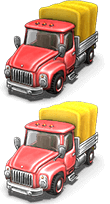
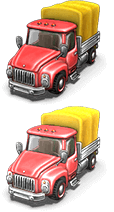
docs: add shop assets

diff --git a/rsclone/src/utils/storage/storageData.ts b/rsclone/src/utils/storage/storageData.ts
@@ -1,0 +1,147 @@
+export const buildData = {
+  well: {
+    '1': {
+      width: 230,
+      height: 180,
+      swidth: 128,
+      sheight: 100,
+      stepY: 100,
+      y: -200
+    },
+    '2': {
+      width: 195,
+      height: 177,
+      swidth: 132,
+      sheight: 120,
+      stepY: 120,
+      y: -200
+    },
+    '3': {
+      width: 195,
+      height: 168,
+      swidth: 176,
+      sheight: 152,
+      stepY: 152,
+      y: -200
+    },
+    '4': {
+      width: 195,
+      height: 168,
+      swidth: 168,
+      sheight: 148,
+      stepY: 148,
+      y: -200
+    },
+  },
+  car: {
+    '1': {
+      width: 200,
+      height: 192,
+      swidth: 110,
+      sheight: 106,
+      stepY: 106,
+      y: -210
+    },
+    '2': {
+      width: 190,
+      height: 176,
+      swidth: 110,
+      sheight: 102,
+      stepY: 102,
+      y: -210
+    },
+    '3': {
+      width: 190,
+      height: 176,
+      swidth: 114,
+      sheight: 106,
+      stepY: 106,
+      y: -210
+    },
+    '4': {
+      width: 190,
+      height: 181,
+      swidth: 120,
+      sheight: 114,
+      stepY: 114,
+      y: -210
+    },
+  },
+  storage: {
+    '1': {
+      width: 300,
+      height: 240,
+      swidth: 164,
+      sheight: 132,
+      stepY: 132,
+      y: -300
+    },
+    '2': {
+      width: 280,
+      height: 233,
+      swidth: 168,
+      sheight: 140,
+      stepY: 140,
+      y: -320
+    },
+    '3': {
+      width: 290,
+      height: 240,
+      swidth: 168,
+      sheight: 136,
+      stepY: 136,
+      y: -320
+    },
+    '4': {
+      width: 300,
+      height: 250,
+      swidth: 170,
+      sheight: 140,
+      stepY: 140,
+      y: -400
+    },
+  },
+  flourBuild: {
+    '1': {
+      width: 280,
+      height: 248,
+      swidth: 176,
+      sheight: 156,
+      stepY: 156,
+      y: -300
+    },
+    '2': {
+      width: 280,
+      height: 280,
+      swidth: 184,
+      sheight: 184,
+      stepY: 184,
+      y: -300
+    },
+    '3': {
+      width: 280,
+      height: 233,
+      swidth: 184,
+      sheight: 152,
+      stepY: 152,
+      y: -350
+    },
+    '4': {
+      width: 250,
+      height: 250,
+      swidth: 184,
+      sheight: 184,
+      stepY: 184,
+      y: -450
+    },
+    '5': {
+      width: 300,
+      height: 300,
+      swidth: 184,
+      sheight: 184,
+      stepY: 184,
+      y: -350
+    },
+  },
+
+};

diff --git a/rsclone/src/utils/trackShop.ts b/rsclone/src/utils/trackShop.ts
@@ -1,6 +1,16 @@
 import { houses, aside, Engineering, IcontentData } from './shopPageData';
 import { IButton } from './../application/iterfaces';
+import { buildData } from './storage/storageData';
+interface IItems {
+  [Key: string]: IProp
+}
+interface Example {
+  [key: string]: IItems
+}
 
+interface IProp {
+  [key: string]: number;
+}
 export default class TrackShop {
   unionData: IcontentData[];
   shopParams: IButton[];
@@ -8,9 +18,12 @@ export default class TrackShop {
     [key: string]: number;
   };
 
+  buildData: Example;
+
   constructor (shopParams: IButton[]) {
     this.unionData = [houses, aside, Engineering];
     this.shopParams = shopParams;
+    this.buildData = buildData;
     this.shopData = {};
     this.saveParams();
   }
@@ -29,11 +42,22 @@ export default class TrackShop {
     this.shopParams.forEach(item => {
 
       if (item.name in this.shopData) {
-        const num = this.shopData[item.name];
-        console.log(num);
+        // получаем currentStage
+        // const number = this.shopData[item.name];
+        const number = 2;
+
         let imgUrl = item.image;
         const regex = new RegExp(/[0-9]/, 'g');
-        imgUrl = imgUrl.replace(regex, `${num}`);
+        imgUrl = imgUrl.replace(regex, `${number}`);
+        item.image = imgUrl;
+        if (item.name in this.buildData) {
+          item.width = this.buildData[item.name][`${number}`].width;
+          item.height = this.buildData[item.name][`${number}`].height;
+          item.swidth = this.buildData[item.name][`${number}`].swidth;
+          item.sheight = this.buildData[item.name][`${number}`].sheight;
+          item.stepY = this.buildData[item.name][`${number}`].stepY;
+        }
+
         console.log(imgUrl);
       }
     });

diff --git a/rsclone/src/utils/animation/driedEgg.ts b/rsclone/src/utils/animation/driedEgg.ts
@@ -1,7 +1,7 @@
 import BuildUtils from "../classes/buildUtil";
-import { IButton, IAnimBuild, Coords, IFunctions, IKeyNumber, IKeyBoolean, } from "../../application/iterfaces";
+import { IButton, IAnimBuild, Coords, IFunctions, IKeyNumber } from "../../application/iterfaces";
 import { driedEggsBtn, driedAnim } from "./../gameData/spawnData";
-
+import TrackShop from "./../trackShop";
 export default class DriedEgg extends BuildUtils {
   build: IAnimBuild[];
   btn: IButton[];
@@ -23,12 +23,14 @@ export default class DriedEgg extends BuildUtils {
 
   productWait: number;
   productOpacity: number;
+  trackShop: TrackShop;
 
 
   constructor (canvas: HTMLCanvasElement, context: CanvasRenderingContext2D, func: IFunctions, productCounter: IKeyNumber) {
     super(canvas, context);
     this.build = this.objParse(driedAnim);
     this.btn = this.objParse(driedEggsBtn);
+    this.trackShop = new TrackShop(this.btn);
     this.productCounter = productCounter;
     this.func = func;
     this.initialBtn = [];

diff --git a/rsclone/src/utils/animation/spawnBuild.ts b/rsclone/src/utils/animation/spawnBuild.ts
@@ -25,7 +25,7 @@ export default class BuildSpawn extends BuildUtils {
   arrow: Arrow;
   wellPrice: WellPrice;
   showPrice: IKeyBoolean;
-  // trackShop: TrackShop;
+  trackShop: TrackShop;
 
 
 
@@ -34,6 +34,8 @@ export default class BuildSpawn extends BuildUtils {
     this.func = func;
     this.build = this.objParse(animationBuildOptions);
     this.btn = this.objParse(buildSpawnBtn);
+    this.trackShop = new TrackShop(this.btn);
+
     this.initialBtn = [];
     this.initialImg = [];
     this.showPrice = {
@@ -48,7 +50,6 @@ export default class BuildSpawn extends BuildUtils {
     this.driedEgg = new DriedEgg(canvas, context, this.func, this.products);
     this.arrow = new Arrow(canvas, context);
     this.wellPrice = new WellPrice(canvas, context);
-    // this.trackShop = new TrackShop(this.btn);
 
 
     this.price = {

diff --git a/rsclone/src/application/application.ts b/rsclone/src/application/application.ts
@@ -17,8 +17,8 @@ export default class Application extends Control {
 
 		// const preloader = new Preloader(this.node, 'div', 'preloader');
 
-		this.mainCycle();
-		// this.gameMapCycle();
+		// this.mainCycle();
+		this.gameMapCycle();
 		// this.levelCycle(3);
 
 		this.music = new Music();

diff --git a/rsclone/src/utils/gameData/spawnData.ts b/rsclone/src/utils/gameData/spawnData.ts
@@ -117,7 +117,7 @@ export const driedAnim = [
   {
     name: 'flourBuild',
     maxX: 0,
-    maxY: 235,
+    maxY: 225,
     speed: 24
   },
   {
